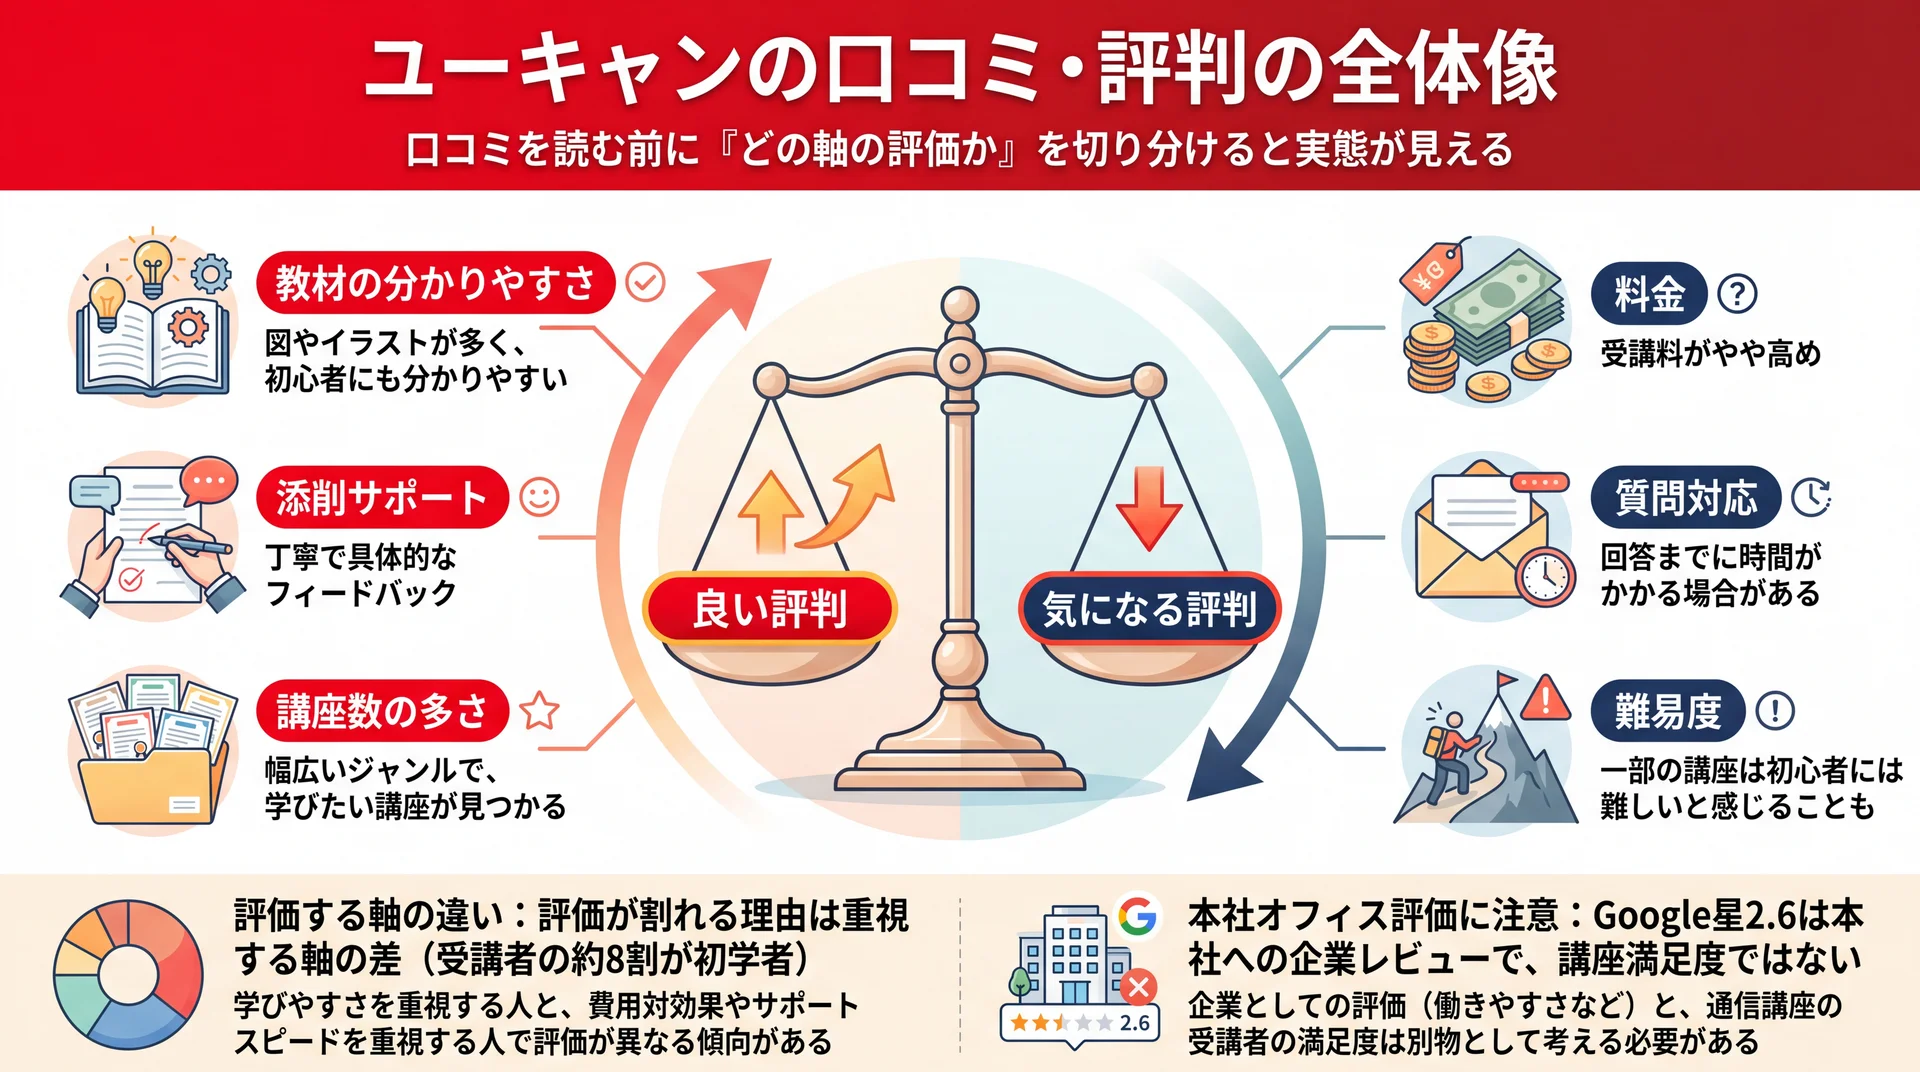
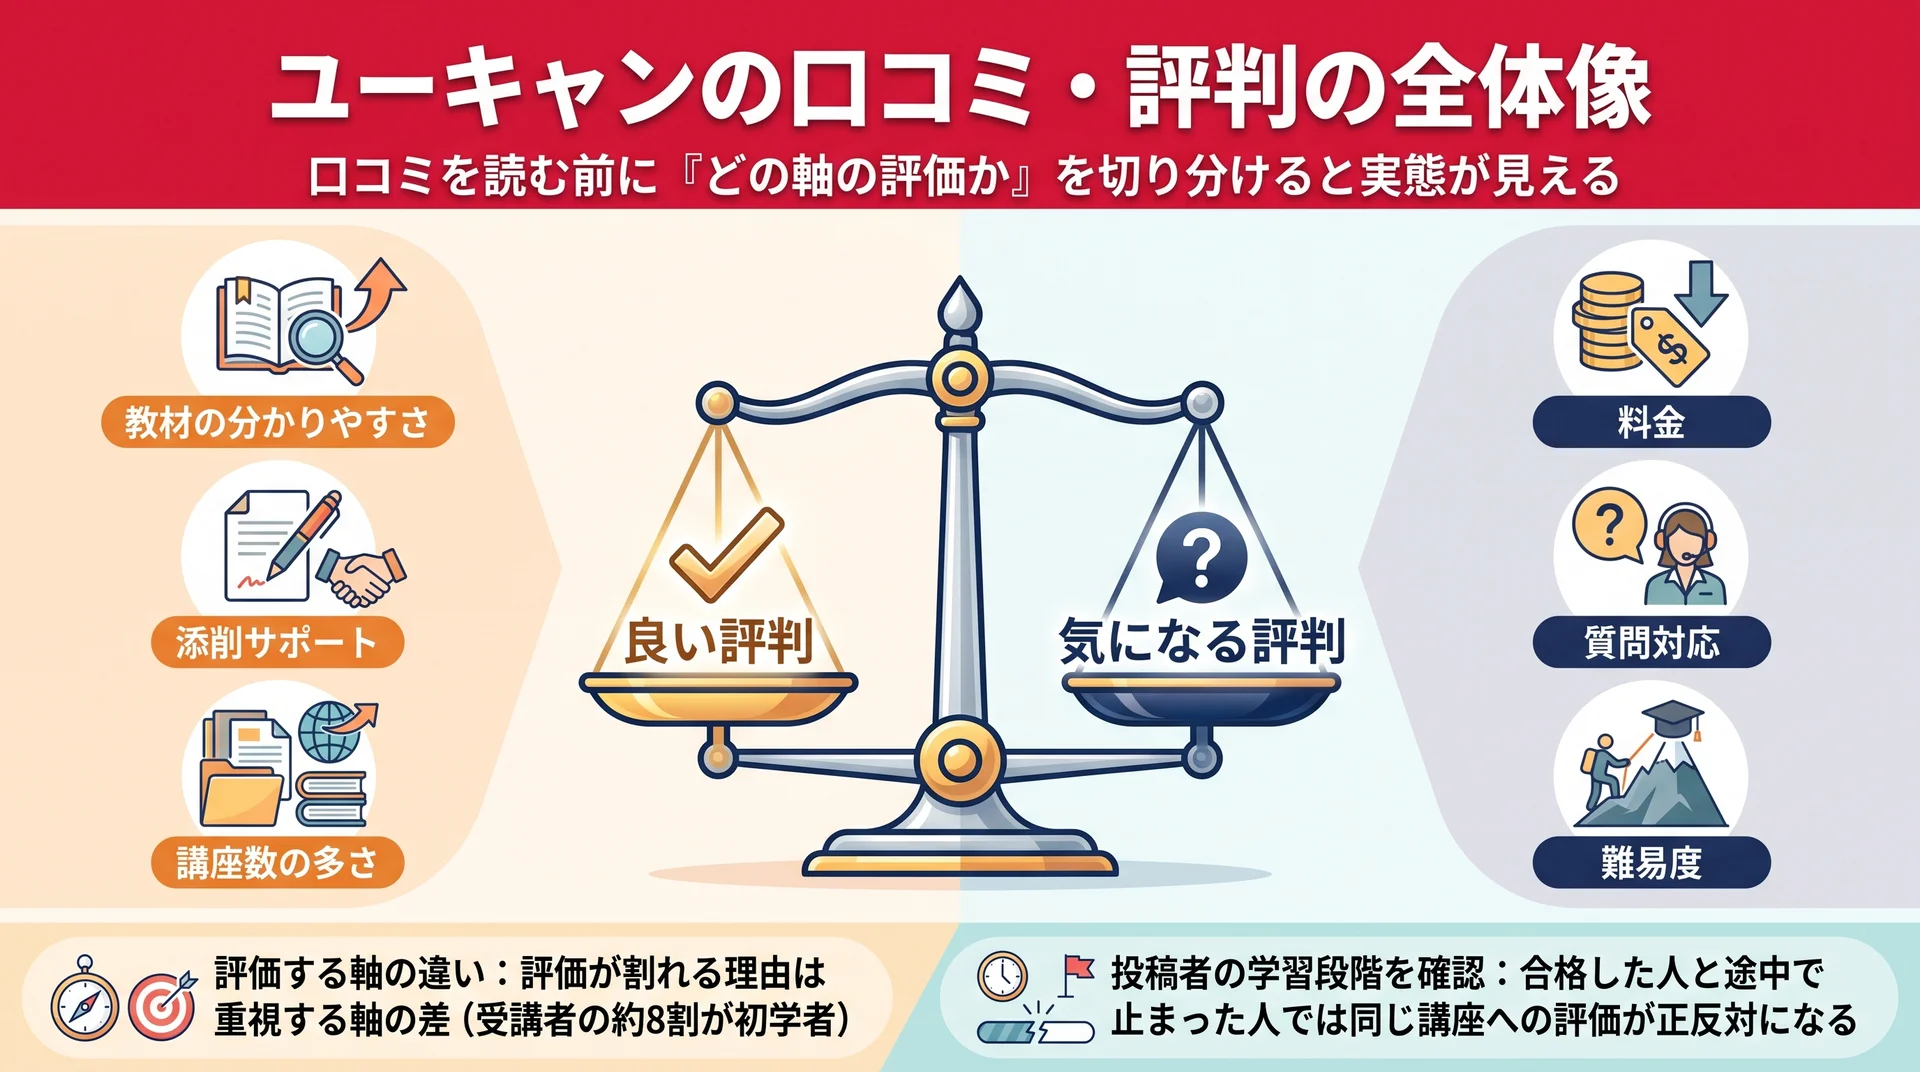
publish: ucan-review

diff --git a/2026/07/ucan-review.html b/2026/07/ucan-review.html
@@ -61,15 +61,14 @@
 <!-- /wp:buttons -->
 </div>
 <!-- /wp:group --><h2 style="font-size:24px; font-weight:600; margin:32px 0 16px; padding-bottom:8px; border-bottom:1px solid #eaeef2; line-height:1.3;">ユーキャンの口コミ・評判の全体像</h2>
-<p style="margin:14px 0; line-height:1.7;"><img src="https://shun-toda.github.io/html-publish/2026/07/ucan-review/h2_01_%E5%8F%A3%E3%82%B3%E3%83%9F_%E5%85%A8%E4%BD%93%E5%83%8F.webp" alt="良い評判と気になる評判が評価軸の違いで割れる構造を示し、Google星2.6は本社評価だと整理した図" loading="lazy" style="max-width:100%; height:auto; display:block; margin:16px auto; border-radius:6px;" /><br><em>口コミは重視する軸で印象が変わる。Google星2.6は本社オフィスへの企業レビューで講座満足度ではない（出所: 受講者構成は当社公開データ、星評価はGoogleマップ）</em></p>
+<p style="margin:14px 0; line-height:1.7;"><img src="https://shun-toda.github.io/html-publish/2026/07/ucan-review/h2_01_%E5%8F%A3%E3%82%B3%E3%83%9F_%E5%85%A8%E4%BD%93%E5%83%8F.webp" alt="良い評判と気になる評判が評価軸の違いで割れる構造を整理した図" loading="lazy" style="max-width:100%; height:auto; display:block; margin:16px auto; border-radius:6px;" /><br><em>口コミは重視する軸で印象が変わる（出所: 受講者構成は当社公開データ）</em></p>
 <p style="margin:14px 0; line-height:1.7;">ユーキャンの口コミは賛否が分かれますが、良い声は「教材の分かりやすさ・添削サポート・講座数の多さ」に、気になる声は「料金・質問対応・難易度」に集中します。当社（生涯学習のユーキャン）の講座は年間約30万人が活用し、のべ受講者数は1,000万人以上です（<a href="https://www.u-can.co.jp/company/business.html" style="color:#0969da; text-decoration:none; border-bottom:1px solid #eaeef2;">事業概要</a>）。口コミを読むときは、まずどの軸の話かを切り分けると実態が見えてきます。</p>
 <h3 style="font-size:20px; font-weight:600; margin:24px 0 12px; line-height:1.3;">口コミが賛否に割れる理由は「評価する軸」の違い</h3>
 <p style="margin:14px 0; line-height:1.7;">同じ講座でも、評価する人がどの軸を重視するかで口コミの印象は大きく変わります。教材の読みやすさや続けやすさを重視する人は高く評価し、料金の安さや難関試験への対応力を重視する人は厳しく評価する、という傾向が第三者レビューサイトの利用者の声から読み取れます。</p>
 <p style="margin:14px 0; line-height:1.7;">当社の人気講座の受講者アンケートでは、約8割が初めて資格の学習に取り組む初学者でした（<a href="https://www.u-can.co.jp/doit/" style="color:#0969da; text-decoration:none; border-bottom:1px solid #eaeef2;">公式サイト</a>）。初めて学ぶ人が学習を続けられるよう教材やサポートが設計されているため、初学者からの「分かりやすい」という評価と、学習経験者からの「物足りない」という評価が同時に生まれます。これは矛盾ではなく、設計の対象がどこに置かれているかの反映です。良い口コミも気になる口コミも、自分がどの層に近いかを意識して読むと判断材料になります。</p>
 <p style="margin:14px 0; line-height:1.7;">口コミを読み解くうえで押さえておきたいのは、投稿する人の状況が一様ではないという点です。学習をやり切って合格した人と、途中で手が止まった人とでは、同じ講座への評価が正反対になります。合格した人は教材やサポートの良さを語り、続かなかった人は料金や難易度への不満を語る傾向があるため、口コミ全体は自然と賛否が混ざります。件数の多寡よりも、その声がどの学習段階から発せられたものかを見ると、自分に当てはまるかどうかが見えてきます。</p>
-<h3 style="font-size:20px; font-weight:600; margin:24px 0 12px; line-height:1.3;">Googleの星2.6という数字の「対象」に注意する</h3>
-<p style="margin:14px 0; line-height:1.7;">検索すると、Googleマップ上でユーキャンの評価が星2.6程度と表示される場合があります。ただしこの評価は東京都新宿区高田馬場にある本社オフィスに対する企業レビューであり、通信講座の受講満足度を測ったものではありません。オフィスの外観やロゴ、電話対応への感想などが混在しており、講座の学習体験とは切り離して見る必要があります。</p>
-<p style="margin:14px 0; line-height:1.7;"><span style="background:linear-gradient(transparent 60%,#FFFF00 60%)"><strong>口コミの数値を見るときは、その評価が「何に対するものか」を先に確認すると誤解を避けられます。</strong></span>受講そのものの満足度は、公式に掲載された受講者の体験談や、複数の第三者レビューサイトに共通する傾向から判断するほうが実態に近づきます。星の数だけを見て候補から外すと、講座の中身とは無関係な情報で判断してしまうことになります。</p>
+<h3 style="font-size:20px; font-weight:600; margin:24px 0 12px; line-height:1.3;">口コミは「何に対する評価か」を確認して読む</h3>
+<p style="margin:14px 0; line-height:1.7;"><span style="background:linear-gradient(transparent 60%,#FFFF00 60%)"><strong>口コミの数値を見るときは、その評価が「何に対するものか」を先に確認すると誤解を避けられます。</strong></span>検索で目にする星評価やレビューには、講座そのものへの評価だけでなく、運営企業や店舗など学習体験とは関係のない対象への投稿が混在していることがあります。受講の満足度は、公式に掲載された受講者の体験談や、複数の第三者レビューサイトに共通する傾向から判断するほうが実態に近づきます。</p>
 <h2 style="font-size:24px; font-weight:600; margin:32px 0 16px; padding-bottom:8px; border-bottom:1px solid #eaeef2; line-height:1.3;">良い口コミ・評判から見える3つの強み</h2>
 <p style="margin:14px 0; line-height:1.7;">良い口コミは「フルカラー教材の分かりやすさ」「添削指導の丁寧さ」「講座数の多さとスキマ時間学習」の3点に集約されます。いずれも初学者が独学で挫折しやすいポイントを補う機能で、複数の第三者レビューサイトに共通して現れる評価です。当社は約140の講座を提供しており（<a href="https://www.u-can.co.jp/company/business.html" style="color:#0969da; text-decoration:none; border-bottom:1px solid #eaeef2;">事業概要</a>）、目的に合った1つを選べる点が土台になっています。</p>
 <h3 style="font-size:20px; font-weight:600; margin:24px 0 12px; line-height:1.3;">教材が分かりやすいという評価が最も多い</h3>